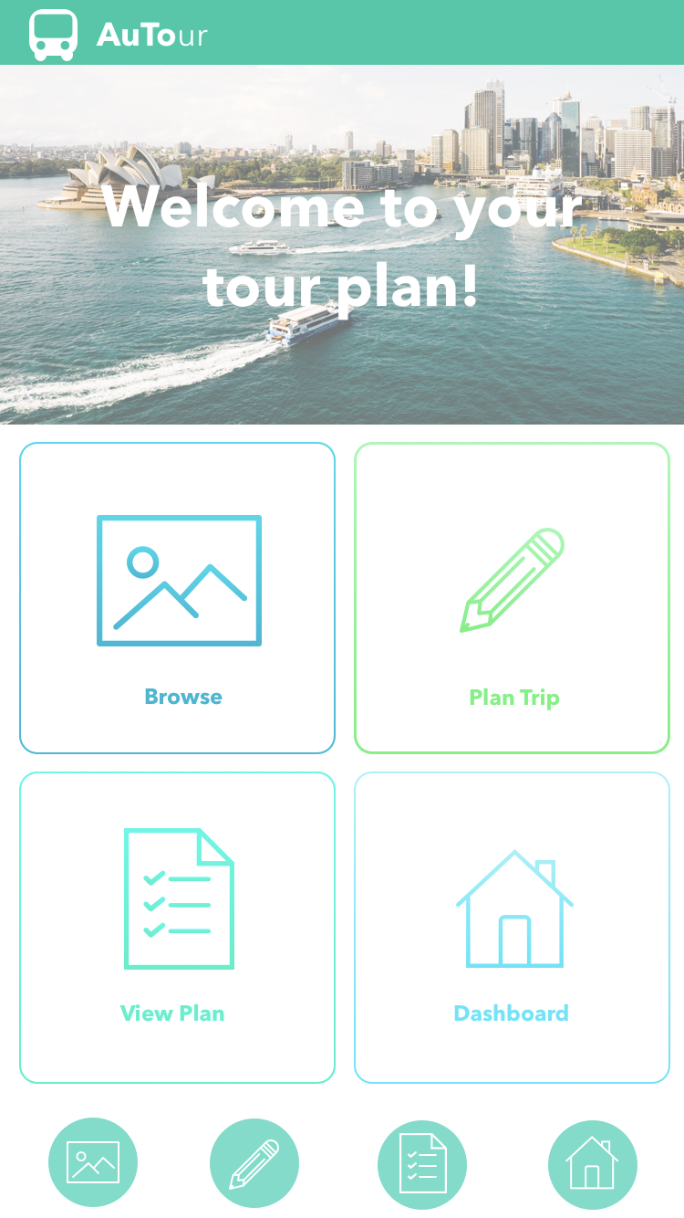
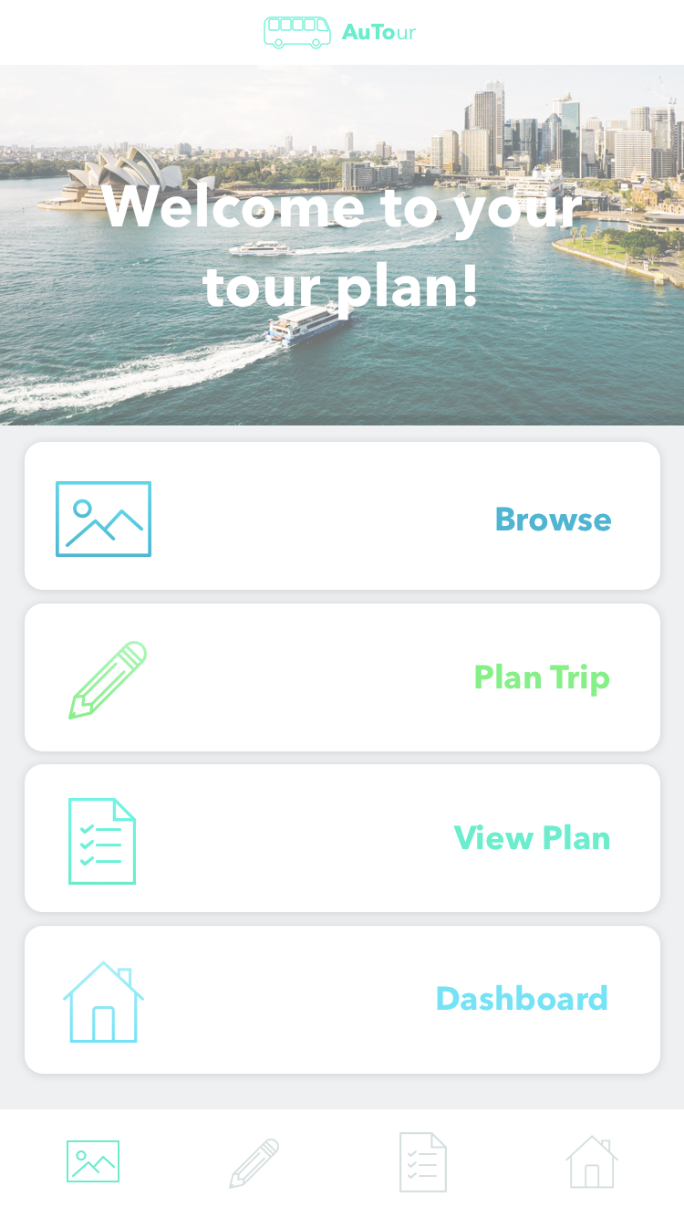
week11

diff --git a/process-journal.html b/process-journal.html
@@ -214,16 +214,7 @@
           </div>
 
 
-            <div class="row">
-              <div class="col-md-4">
-                <p>Lorem ipsum dolor sit amet, consectetur adipiscing elit, sed do eiusmod tempor incididunt ut labore et dolore magna aliqua. Eget nunc lobortis mattis aliquam. Tortor condimentum lacinia quis vel eros. Nec feugiat nisl pretium fusce id velit ut tortor pretium. Enim sit amet venenatis urna cursus eget. Tortor posuere ac ut consequat semper viverra. </p>
-              </div>
-              <div class="col-md-8">
-                <iframe width="100%" height="400" src="https://www.youtube.com/embed/nhg9ecOh-oA" frameborder="0" allow="autoplay; encrypted-media" allowfullscreen></iframe>
-              </div>
-            </div>
-
-
+      
 
             <div class="row section-heading" id="week4">
               <div class="col-md-12">
@@ -725,6 +716,84 @@
                 </div>
               </div>
 
+              <div class="row">
+                <div class="col-md-12">
+                  <p> This week, we created multiple iterations of our concept, changing colour palettes and gradients to what suited the app more appropriately. We had several disagreements about the colour scheme and what looked better. We started with red as it was a bold colour that would grab the attention of the user, however when we tested it briefly with users, they said the colour was too bold and very ‘in your face’. The multiple shades of red were not easily differentiable between different functions within the app. So we moved to a blueish colour palette. This was a better, however we received feedback that the layout of the app did not look very professional. We had a few more disagreements about what the app should look like. We solved this by drawing out what we envisioned in our heads of what we wanted it to look like and incorporated each of everyone’s designs to create our final prototype. We gained inspiration from different websites that had a very minimalistic and professional look.
+                  </p>
+                </div>
+              </div>
+
+              <div class="row">
+                <div class="col-md-4">
+                  <img src="./img/process-journal/Week11_3.png" class="img-fluid" alt="Responsive image">
+                  <span class="img-caption">Figure 11.1 - First iteration of Dashboard page </span>
+                </div>
+                <div class="col-md-4">
+                  <img src="./img/process-journal/Week11_4.png" class="img-fluid" alt="Responsive image">
+                  <span class="img-caption">Figure 11.2 - Second iteration of Dashboard page</span>
+                </div>
+                <div class="col-md-4">
+                  <img src="./img/process-journal/Week11_5.png" class="img-fluid" alt="Responsive image">
+                  <span class="img-caption">Figure 11.3 - Final design of Dashboard page</span>
+                </div>
+              </div>
+
+              <div class="row">
+                <div class="col-md-4">
+                  <img src="./img/process-journal/Week11_6.png" class="img-fluid" alt="Responsive image">
+                  <span class="img-caption">Figure 11.4 - First iteration of Browse page </span>
+                </div>
+                <div class="col-md-4">
+                  <img src="./img/process-journal/Week11_7.png" class="img-fluid" alt="Responsive image">
+                  <span class="img-caption">Figure 11.5 - Second iteration of Browse page </span>
+                </div>
+                <div class="col-md-4">
+                  <img src="./img/process-journal/Week11_8.png" class="img-fluid" alt="Responsive image">
+                  <span class="img-caption">Figure 11.6 - Final design of Browse page</span>
+                </div>
+              </div>
+
+              <div class="row">
+                <div class="col-md-4">
+                  <img src="./img/process-journal/Week11_9.png" class="img-fluid" alt="Responsive image">
+                  <span class="img-caption">Figure 11.7 - First iteration of Welcome page </span>
+                </div>
+                <div class="col-md-4">
+                  <img src="./img/process-journal/Week11_10.png" class="img-fluid" alt="Responsive image">
+                  <span class="img-caption">Figure 11.8 - Second iteration of Welcome page </span>
+                </div>
+                <div class="col-md-4">
+                  <img src="./img/process-journal/Week11_11.png" class="img-fluid" alt="Responsive image">
+                  <span class="img-caption">Figure 11.9 - Final design of Welcome page</span>
+                </div>
+              </div>
+
+              <div class="row">
+
+                <div class="col-md-12">
+                  <p> We then tested our final design with users’. All of them thought it was easy to navigate through and enjoyed the graphics of our app.
+                  </p>
+                </div>
+                <div class="col-md-6">
+                  <img src="./img/process-journal/Week11_1.jpg" class="img-fluid" alt="Responsive image">
+                  <span class="img-caption">Figure 11.10 - Testing final prototype</span>
+                </div>
+
+                <div class="col-md-6">
+                  <img src="./img/process-journal/Week11_2.jpg" class="img-fluid" alt="Responsive image">
+                  <span class="img-caption">Figure 11.1 - Testing final prototype</span>
+                </div>
+              </div>
+
+              <div class="row">
+
+                <div class="col-md-12">
+                  <p> Overall, I am very proud of how we iterated our designs to create our final interface as we were able to create something that not only serves its function in addressing the users’ needs, but is also aesthetically appealing.
+                  </p>
+                </div>
+              </div>
+
+
 
               <div class="row section-heading" id="week12">
                 <div class="col-md-12">
@@ -733,8 +802,8 @@
               </div>
 
               <div class="row">
-              <div class="col-md-8">
-                <iframe width="100%" height="400" src="https://www.youtube.com/watch?time_continue=1&v=C23M_mRDDPE" frameborder="0" allow="autoplay; encrypted-media" allowfullscreen>
+              <div class="col-md-12">
+                <iframe width="100%" height="400" src="https://www.youtube.com/embed/C23M_mRDDPE" frameborder="0" allow="autoplay; encrypted-media" allowfullscreen>
                 </iframe>
               </div>
             </div>
